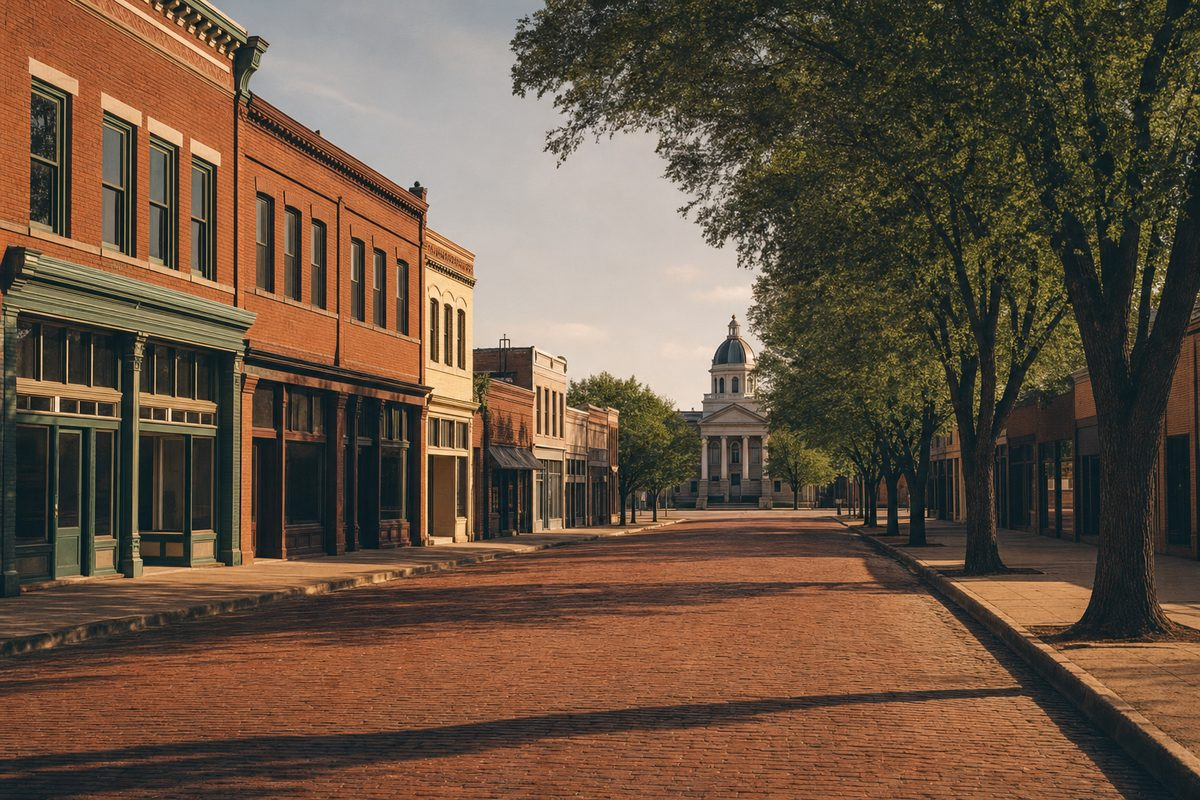
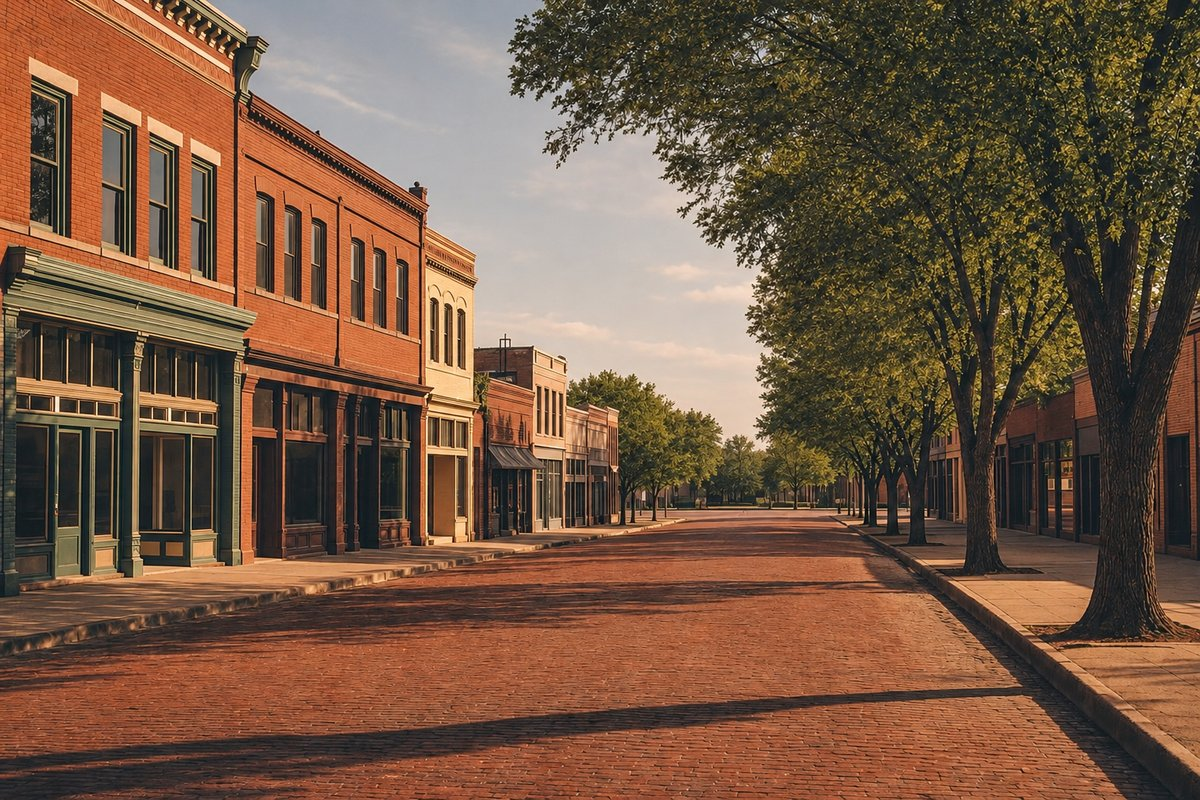
Downtown photo: remove domed building, update alt text

diff --git a/es/index.html b/es/index.html
@@ -164,7 +164,7 @@
         </ul>
       </div>
       <figure class="col-media">
-        <img src="../assets/town.jpg" alt="Calle principal histórica de ladrillo rojo en Memphis, Texas, con locales comerciales de principios del siglo XX y la cúpula del palacio de justicia al final de la cuadra" width="1200" height="800" loading="lazy" />
+        <img src="../assets/town.jpg" alt="Calle principal histórica de ladrillo rojo en Memphis, Texas, con locales comerciales de principios del siglo XX y árboles de sombra a lo largo de la acera" width="1200" height="800" loading="lazy" />
         <figcaption>El centro de Memphis todavía se recorre sobre cincuenta cuadras de ladrillo colocado en 1926.</figcaption>
       </figure>
     </div>

diff --git a/index.html b/index.html
@@ -169,7 +169,7 @@
         </ul>
       </div>
       <figure class="col-media">
-        <img src="assets/town.jpg" alt="Historic red brick main street in Memphis, Texas, with early-1900s storefronts and the county courthouse dome at the end of the block" width="1200" height="800" loading="lazy" />
+        <img src="assets/town.jpg" alt="Historic red brick main street in Memphis, Texas, with early-1900s storefronts and shade trees lining the sidewalk" width="1200" height="800" loading="lazy" />
         <figcaption>Downtown Memphis still runs on fifty blocks of brick paving laid in 1926.</figcaption>
       </figure>
     </div>
